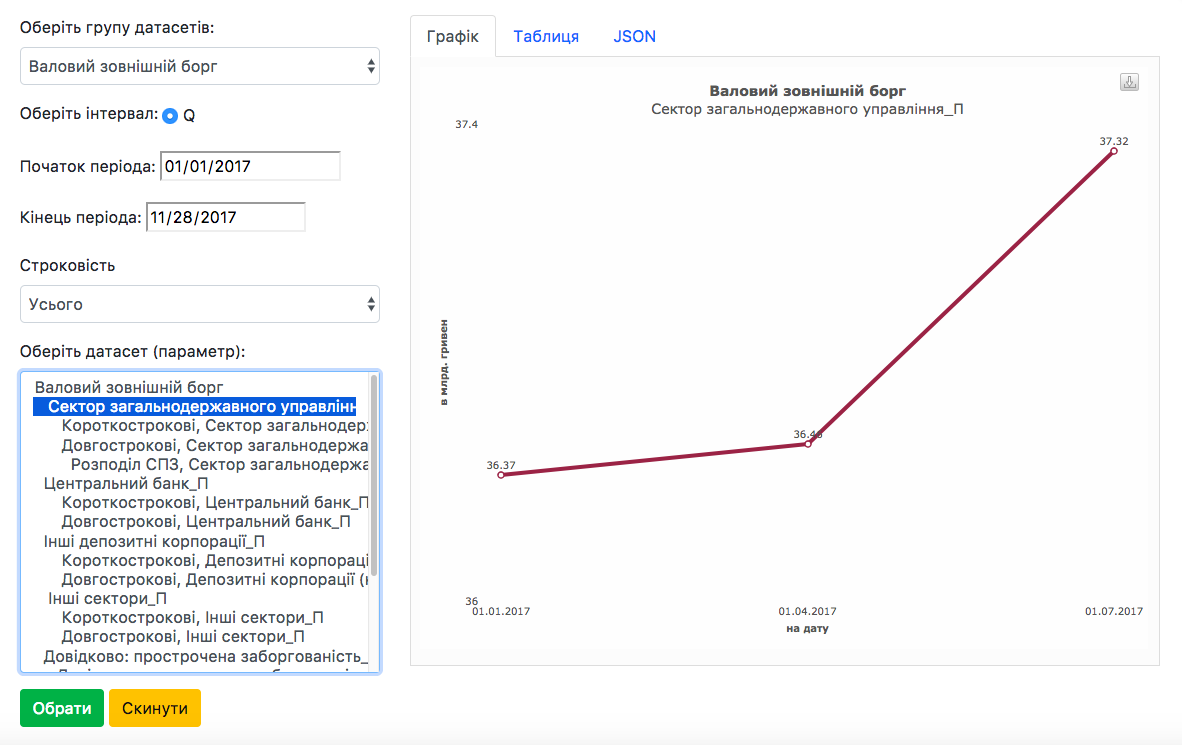
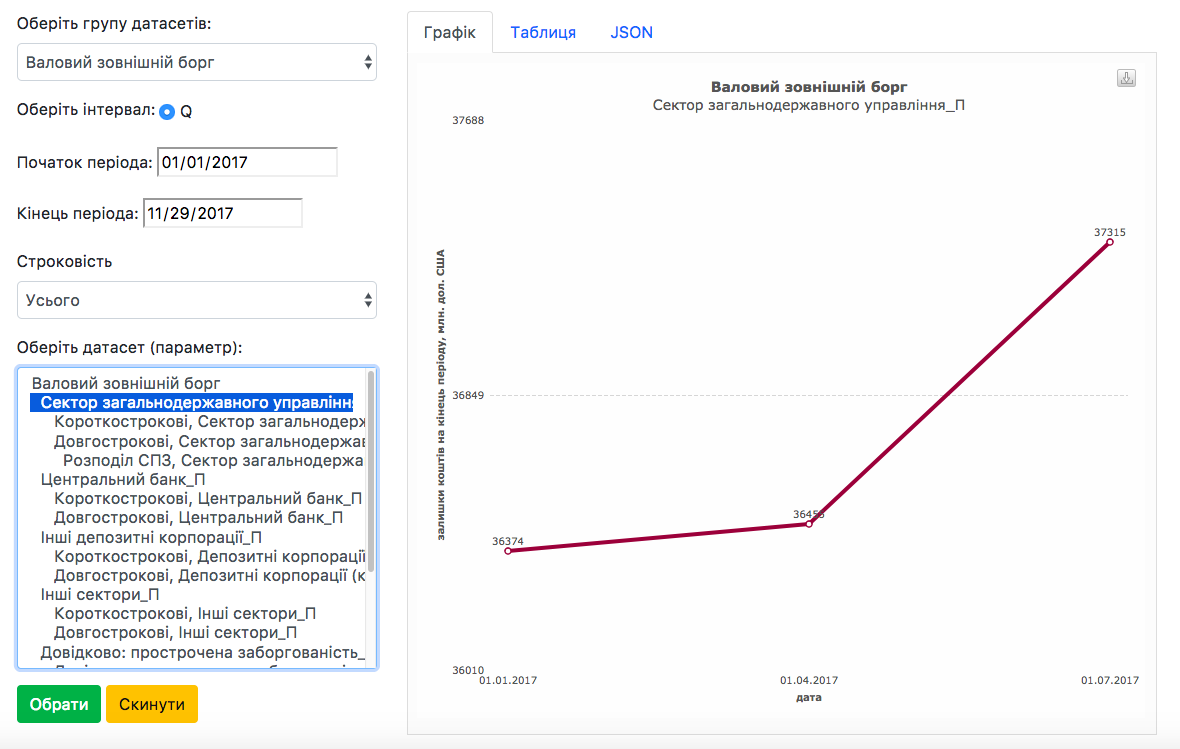
updated logic

diff --git a/opendata-explorer/index.php b/opendata-explorer/index.php
@@ -201,7 +201,7 @@ set_time_limit(0);
 						// Constructing other parameters taken directly from dataset with test data
 
 						if ($apikod == "liquidity") { //for newly added groups of datasets
-							$testDate = "20171001";
+							$testDate = "20171101";
 						} else {
 							$testDate = "20170701";
 						}
@@ -369,7 +369,7 @@ set_time_limit(0);
 						foreach ($sortArrayFinal as $key => $value) {
 							
 							$floatMoney = floatval($value->value);
-							$money = number_format($floatMoney, 2, ".", "");
+							$money = number_format($floatMoney, 0, ".", "");
 
 							$arrDataVis[] = array(
 								"label" => $value->dt,
@@ -396,6 +396,7 @@ set_time_limit(0);
 				foreach ($dataTzep as $key => $value) {
 					if ($tzepCode == strtoupper($value->tzep)) {
 						$tzepTxt = $value->txt;
+						$tzepDef = $value->def;
 					}
 				}
 				
@@ -407,13 +408,14 @@ set_time_limit(0);
 					$plotColor = "#900C3F";
 				}
 				
+				
 
 				$myChart = new FusionCharts($chartType, "myChartContainer", "100%", "90%", "myGreatChartContainer", "json",
 		            '{
 		                "chart": {
 		                    "caption": "' . $dataGroupName . '",
 		                    "subCaption": "' . $sortArrayFinal[0]->txt . '",
-		                    "xAxisName": "на дату",
+		                    "xAxisName": "дата",
 		                    "yAxisName": "' . $tzepTxt . '",
 		                    "numberPrefix": "",
 		                    "formatNumber": "0",

diff --git a/opendata-explorer/README.md b/opendata-explorer/README.md
@@ -22,13 +22,13 @@ ___________________
 
 Рекомендации по API НБУ:
 
-1. ~~В ресурсе Statdirectory периоды отображают доступные интервалы между показателями "на дату". Для отображения "за период" (за месяц, квартал, год) необходимо делать дополнительные вычисления.~~ Сток (Stock) или поток (Flow) можно брать из Dimension/tzep, однако необходимо дополнительно трансформировать даты в кварталы (например, 01.01.2017 - 2017Q1).
+1. ~~В ресурсе Statdirectory периоды отображают доступные интервалы между показателями "на дату". Для отображения "за период" (за месяц, квартал, год) необходимо делать дополнительные вычисления.~~ Сток (Stock - на дату) или поток (Flow - за период) можно брать из Dimension/tzep, однако тогда желательно трансформировать даты в кварталы (например, 01.01.2017 в  2017Q1).
 
 2. ~~В ресурсе Dimensions необходимо проверить названия разрезов. Например, название разреза "Складові MACRO-покзників" отображается с опечаткой (пропущена буква).~~
 
 3. ~~В ресурсе Dimension/{dimension} необходимо проверить доступность и содержание разрезов. Например, разрез "Сектора економіки" odk070 недоступен. Разрез "Територія" частично дублирует "Регіони".~~
 
-4. ~~В ресурсе Statdirectory/{apikod} мы получаем массив объектов, в свойствах которых отсутствует единица измерения, соответственно не понятно это в штуках, процентах, в тысячах, млн, млрд? Это гривны или долл США? Желательно вывести эту информацию в свойствах и/или подкорректировать tzep, т.к. он у всех объектов одинаковый~~. Можно брать из tzep, однако желательно выводить отдельно единицу измерения (грн или долл, количество, проценты), а вот размерность (тыс, млн, млрд) позволить девелоперам вычислять и выводить самостоятельно, таким образом округляя цифры для более привлекательных графиков (и не округляя для таблиц).
+4. ~~В ресурсе Statdirectory/{apikod} мы получаем массив объектов, в свойствах которых отсутствует единица измерения, соответственно не понятно это в штуках, процентах, в тысячах, млн, млрд? Это гривны или долл США? Желательно вывести эту информацию в свойствах и/или подкорректировать tzep, т.к. он у всех объектов одинаковый~~. Можно брать из tzep, однако желательно выводить отдельно единицу измерения (грн или долл, количество, проценты) и отдельно размерность. Таким образом разработчики смогут еще больше округлить цифры для графиков (и не округляя для таблиц), а затем добавить свое значение к единице измерения, если нужно.
 
 5. В ресурсе Statdirectory/{apikod}, уточняя его по id_api, start и end, получаем даты в человекочитаемом формате, а не машинном, а также в произвольном порядке. Из-за этого нужно дополнительно работать с датой, чтобы конвертировать ее из доступного DD.MM.YYYY и затем использовать функцию сортировки. Желательно даты выводить в UNIX timestamp.
 
@@ -42,13 +42,15 @@ ___________________
 
 ![Alt text](/opendata-explorer/ss/01a.png?raw=true "Грошові агрегати - M1 - Усі сектори - Табличний вигляд")
 
-![Alt text](/opendata-explorer/ss/02.png?raw=true "Валовий зовнішній борг - Усього")
+![Alt text](/opendata-explorer/ss/02.png?raw=true "Валовий зовнішній борг - Сектор загальнодержавного управління - Усього")
 
 ![Alt text](/opendata-explorer/ss/03.png?raw=true "Основні показники діяльності банків - Строкові кошти фізичних осіб (з ощадними (депозитними) сертифікатами) - Графік")
 
 ![Alt text](/opendata-explorer/ss/04.png?raw=true "Основні показники діяльності банків - Строкові кошти фізичних осіб (з ощадними (депозитними) сертифікатами) - Табличний вигляд")
 
-![Alt text](/opendata-explorer/ss/06.png?raw=true "Лiквiднiсть - Рефiнансування банкiв")
+![Alt text](/opendata-explorer/ss/05.png?raw=true "Доходи та витрати банків - Повернення списаних активів")
+
+![Alt text](/opendata-explorer/ss/06.png?raw=true "Лiквiднiсть - Рефінансування банків (залишок за основною сумою), на початок дня")
 
 ___________________
 
